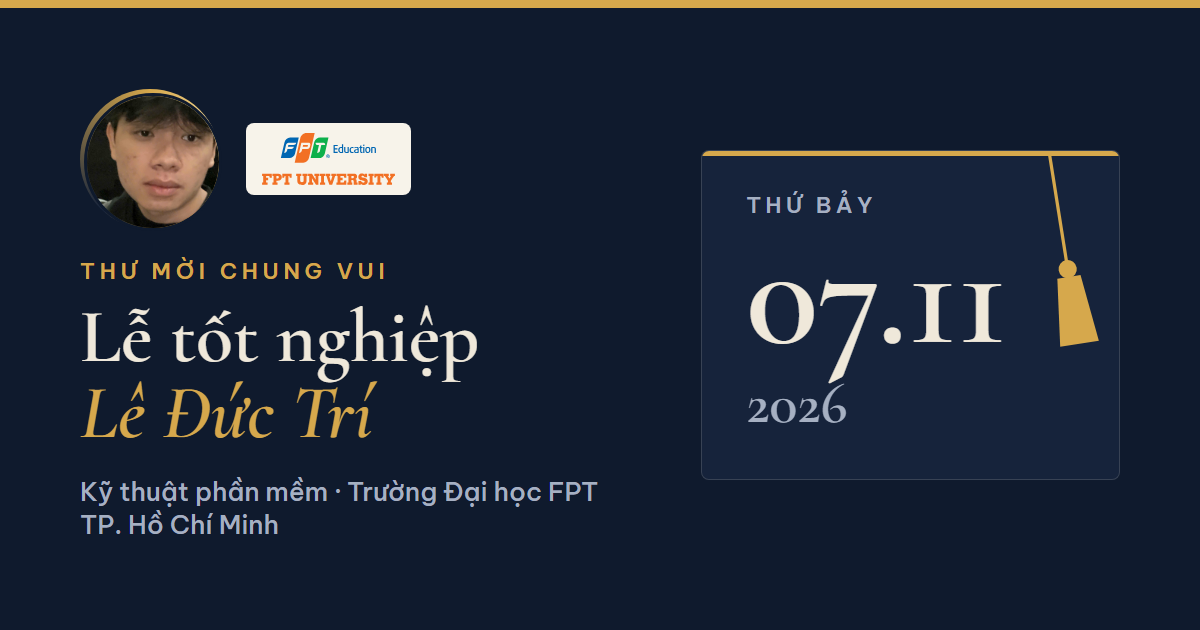
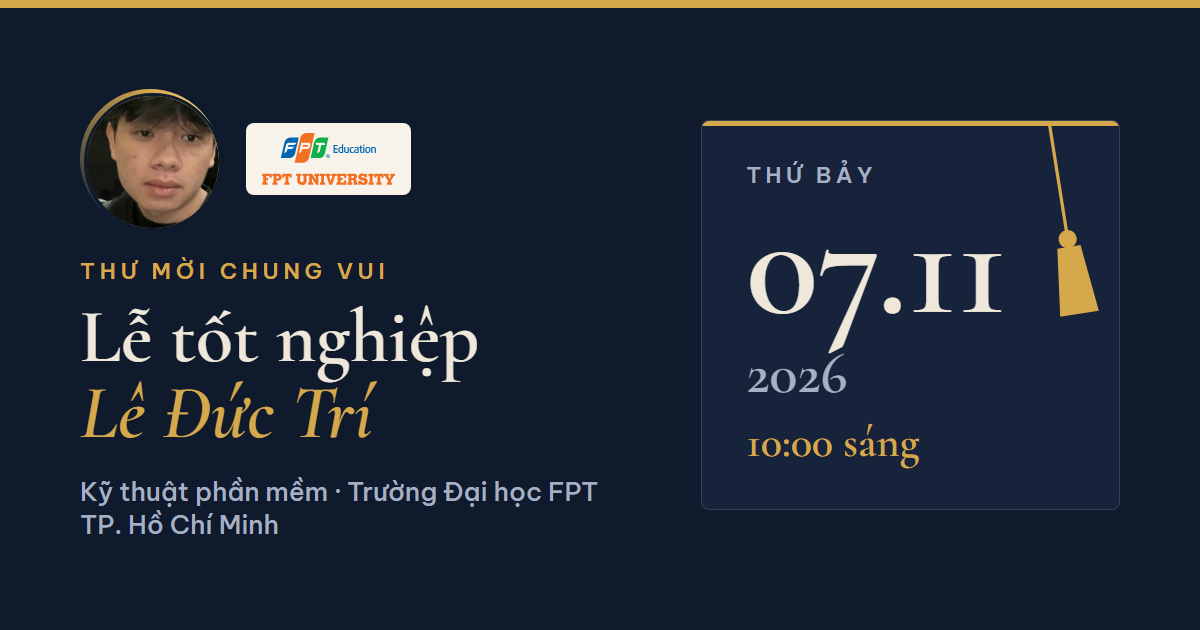
feat: them gio to chuc 10:00 sang vao thiep moi

Changed region(s): [[0.5858, 0.181, 0.925, 0.5429], [0.6167, 0.3921, 0.8325, 0.754], [0.7708, 0.3921, 0.8325, 0.4524]]

diff --git a/index.html b/index.html
@@ -4,13 +4,13 @@
 <meta charset="utf-8">
 <meta name="viewport" content="width=device-width,initial-scale=1,viewport-fit=cover">
 <title>Lễ Tốt Nghiệp Đức Trí</title>
-<meta name="description" content="Trí trân trọng mời bạn đến chung vui lễ tốt nghiệp ngành Kỹ thuật phần mềm, Thứ Bảy 07.11.2026 tại Trường Đại học FPT TP. Hồ Chí Minh.">
+<meta name="description" content="Trí trân trọng mời bạn đến chung vui lễ tốt nghiệp ngành Kỹ thuật phần mềm, 10:00 sáng Thứ Bảy 07.11.2026 tại Trường Đại học FPT TP. Hồ Chí Minh.">
 <meta name="theme-color" content="#0f1a2d">
 <meta property="og:type" content="website">
 <meta property="og:locale" content="vi_VN">
 <meta property="og:url" content="https://trimikey.github.io/duc-tri-thu-moi-tot-nghiep/">
 <meta property="og:title" content="Thư mời dự lễ tốt nghiệp của Lê Đức Trí">
-<meta property="og:description" content="Thứ Bảy, 07.11.2026 · Trường Đại học FPT TP. Hồ Chí Minh">
+<meta property="og:description" content="10:00 sáng Thứ Bảy, 07.11.2026 · Trường Đại học FPT TP. Hồ Chí Minh">
 <meta property="og:image" content="https://trimikey.github.io/duc-tri-thu-moi-tot-nghiep/og.png">
 <meta property="og:image:width" content="1200">
 <meta property="og:image:height" content="630">
@@ -361,6 +361,7 @@
     padding-right: 52px;
   }
   .bigdate .year { display: block; font-size: 0.42em; color: var(--muted); letter-spacing: 0.04em; margin-top: 8px; }
+  .bigdate .hour { display: block; font-size: 0.32em; color: var(--gold); letter-spacing: 0.02em; margin-top: 10px; }
   .countdown {
     margin-top: 18px;
     padding-top: 16px;
@@ -559,7 +560,7 @@
         <path d="M17 104 V146 M23 104 V147 M29 104 V146" stroke="#0f1a2d" stroke-width="1.2" opacity=".35"/>
       </svg>
       <div class="weekday">Thứ Bảy</div>
-      <div class="bigdate">07.11<span class="year">2026</span></div>
+      <div class="bigdate">07.11<span class="year">2026</span><span class="hour">10:00 sáng</span></div>
       <svg class="seal" viewBox="0 0 120 120" aria-hidden="true">
         <defs>
           <path id="seal-path" d="M60 60 m-47 0 a47 47 0 1 1 94 0 a47 47 0 1 1 -94 0"/>
@@ -604,7 +605,7 @@
         </div>
         <div class="row" data-reveal>
           <dt>Giờ</dt>
-          <dd id="time-value"><span class="pending">Trí sẽ cập nhật giờ cụ thể</span></dd>
+          <dd id="time-value">10:00 sáng</dd>
         </div>
         <div class="row" data-reveal>
           <dt>Địa điểm</dt>
@@ -621,7 +622,7 @@
       <h2 data-reveal>Giữ lịch giúp Trí</h2>
       <p data-reveal>Lưu ngày này vào lịch để không quên nhé.</p>
       <a class="btn primary" id="cal-link" data-reveal target="_blank" rel="noopener"
-         href="https://calendar.google.com/calendar/render?action=TEMPLATE&amp;text=L%E1%BB%85%20t%E1%BB%91t%20nghi%E1%BB%87p%20c%E1%BB%A7a%20L%C3%AA%20%C4%90%E1%BB%A9c%20Tr%C3%AD&amp;dates=20261107%2F20261108">
+         href="https://calendar.google.com/calendar/render?action=TEMPLATE&amp;text=L%E1%BB%85%20t%E1%BB%91t%20nghi%E1%BB%87p%20c%E1%BB%A7a%20L%C3%AA%20%C4%90%E1%BB%A9c%20Tr%C3%AD&amp;dates=20261107T030000Z%2F20261107T060000Z">
         <span>Thêm vào Google Calendar</span><span class="arrow" aria-hidden="true">→</span>
       </a>
       <a class="btn" id="map-link" data-reveal target="_blank" rel="noopener" href="https://www.google.com/maps/search/?api=1&amp;query=Tr%C6%B0%E1%BB%9Dng%20%C4%90%E1%BA%A1i%20h%E1%BB%8Dc%20FPT%20TP.%20H%E1%BB%93%20Ch%C3%AD%20Minh">
@@ -640,7 +641,7 @@
   </section>
 
   <footer data-reveal>
-    <span>Hẹn gặp bạn ngày 07.11.2026</span>
+    <span>Hẹn gặp bạn lúc 10:00 sáng ngày 07.11.2026</span>
     <span class="sign">Đức Trí</span>
   </footer>
 </main>
@@ -652,8 +653,8 @@
   const EVENT = {
     name: "Lê Đức Trí",
     date: { y: 2026, m: 11, d: 7 },
-    time: "",          // ví dụ "08:00"
-    endTime: "",       // ví dụ "11:30"
+    time: "10:00",     // giờ bắt đầu (giờ Việt Nam)
+    endTime: "",       // chưa có giờ kết thúc → lịch Google tạm giữ 3 tiếng
     venue: "Trường Đại học FPT TP. Hồ Chí Minh",
     venueAddress: "Lô E2a-7, Đường D1, Khu Công nghệ cao, TP. Hồ Chí Minh",
     mapQuery: "Trường Đại học FPT TP. Hồ Chí Minh",
@@ -676,7 +677,9 @@
   function render() {
     const timeEl = document.getElementById("time-value");
     if (EVENT.time) {
-      timeEl.textContent = EVENT.endTime ? `${EVENT.time} – ${EVENT.endTime}` : EVENT.time;
+      const hour = Number(EVENT.time.split(":")[0]);
+      const buoi = hour < 11 ? "sáng" : hour < 13 ? "trưa" : hour < 18 ? "chiều" : "tối";
+      timeEl.textContent = EVENT.endTime ? `${EVENT.time} – ${EVENT.endTime}` : `${EVENT.time} ${buoi}`;
     }
 
     const venueEl = document.getElementById("venue-value");
